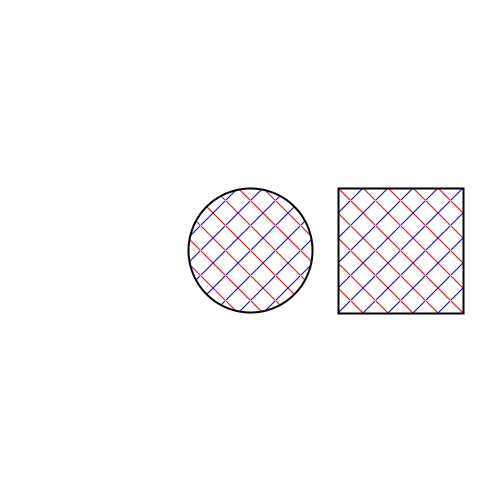
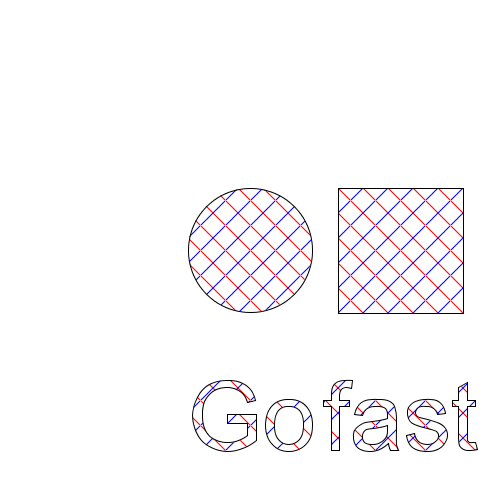
cmd/codepicdeck: update pattern

diff --git a/cmd/codepicdeck/code/pattern.go b/cmd/codepicdeck/code/pattern.go
@@ -15,7 +15,6 @@ func main() {
 	pw, ph := (width*pct)/100, (height*pct)/100
 	canvas.Start(width, height)
 
-	// define the pattern
 	canvas.Def()
 	canvas.Pattern("hatch", 0, 0, pw, ph, "user")
 	canvas.Gstyle("fill:none;stroke-width:1")
@@ -25,10 +24,13 @@ func main() {
 	canvas.PatternEnd()
 	canvas.DefEnd()
 
-	// use the pattern
-	canvas.Gstyle("stroke:black; stroke-width:2")
-	canvas.Circle(width/2, height/2, height/8, "fill:url(#hatch)")
-	canvas.CenterRect((width*4)/5, height/2, height/4, height/4, "fill:url(#hatch)")
+	x1 := width/2
+	x2 := (width*4)/5
+	canvas.Gstyle("stroke:black; font-size: 72pt; text-anchor:middle; fill:url(#hatch)")
+	canvas.Circle(x1, height/2, height/8)
+	canvas.CenterRect(x2, height/2, height/4, height/4)
+	canvas.Text(x1, height-50, "Go")
+	canvas.Text(x2, height-50, "fast")
 	canvas.Gend()
 	canvas.End()
 }
